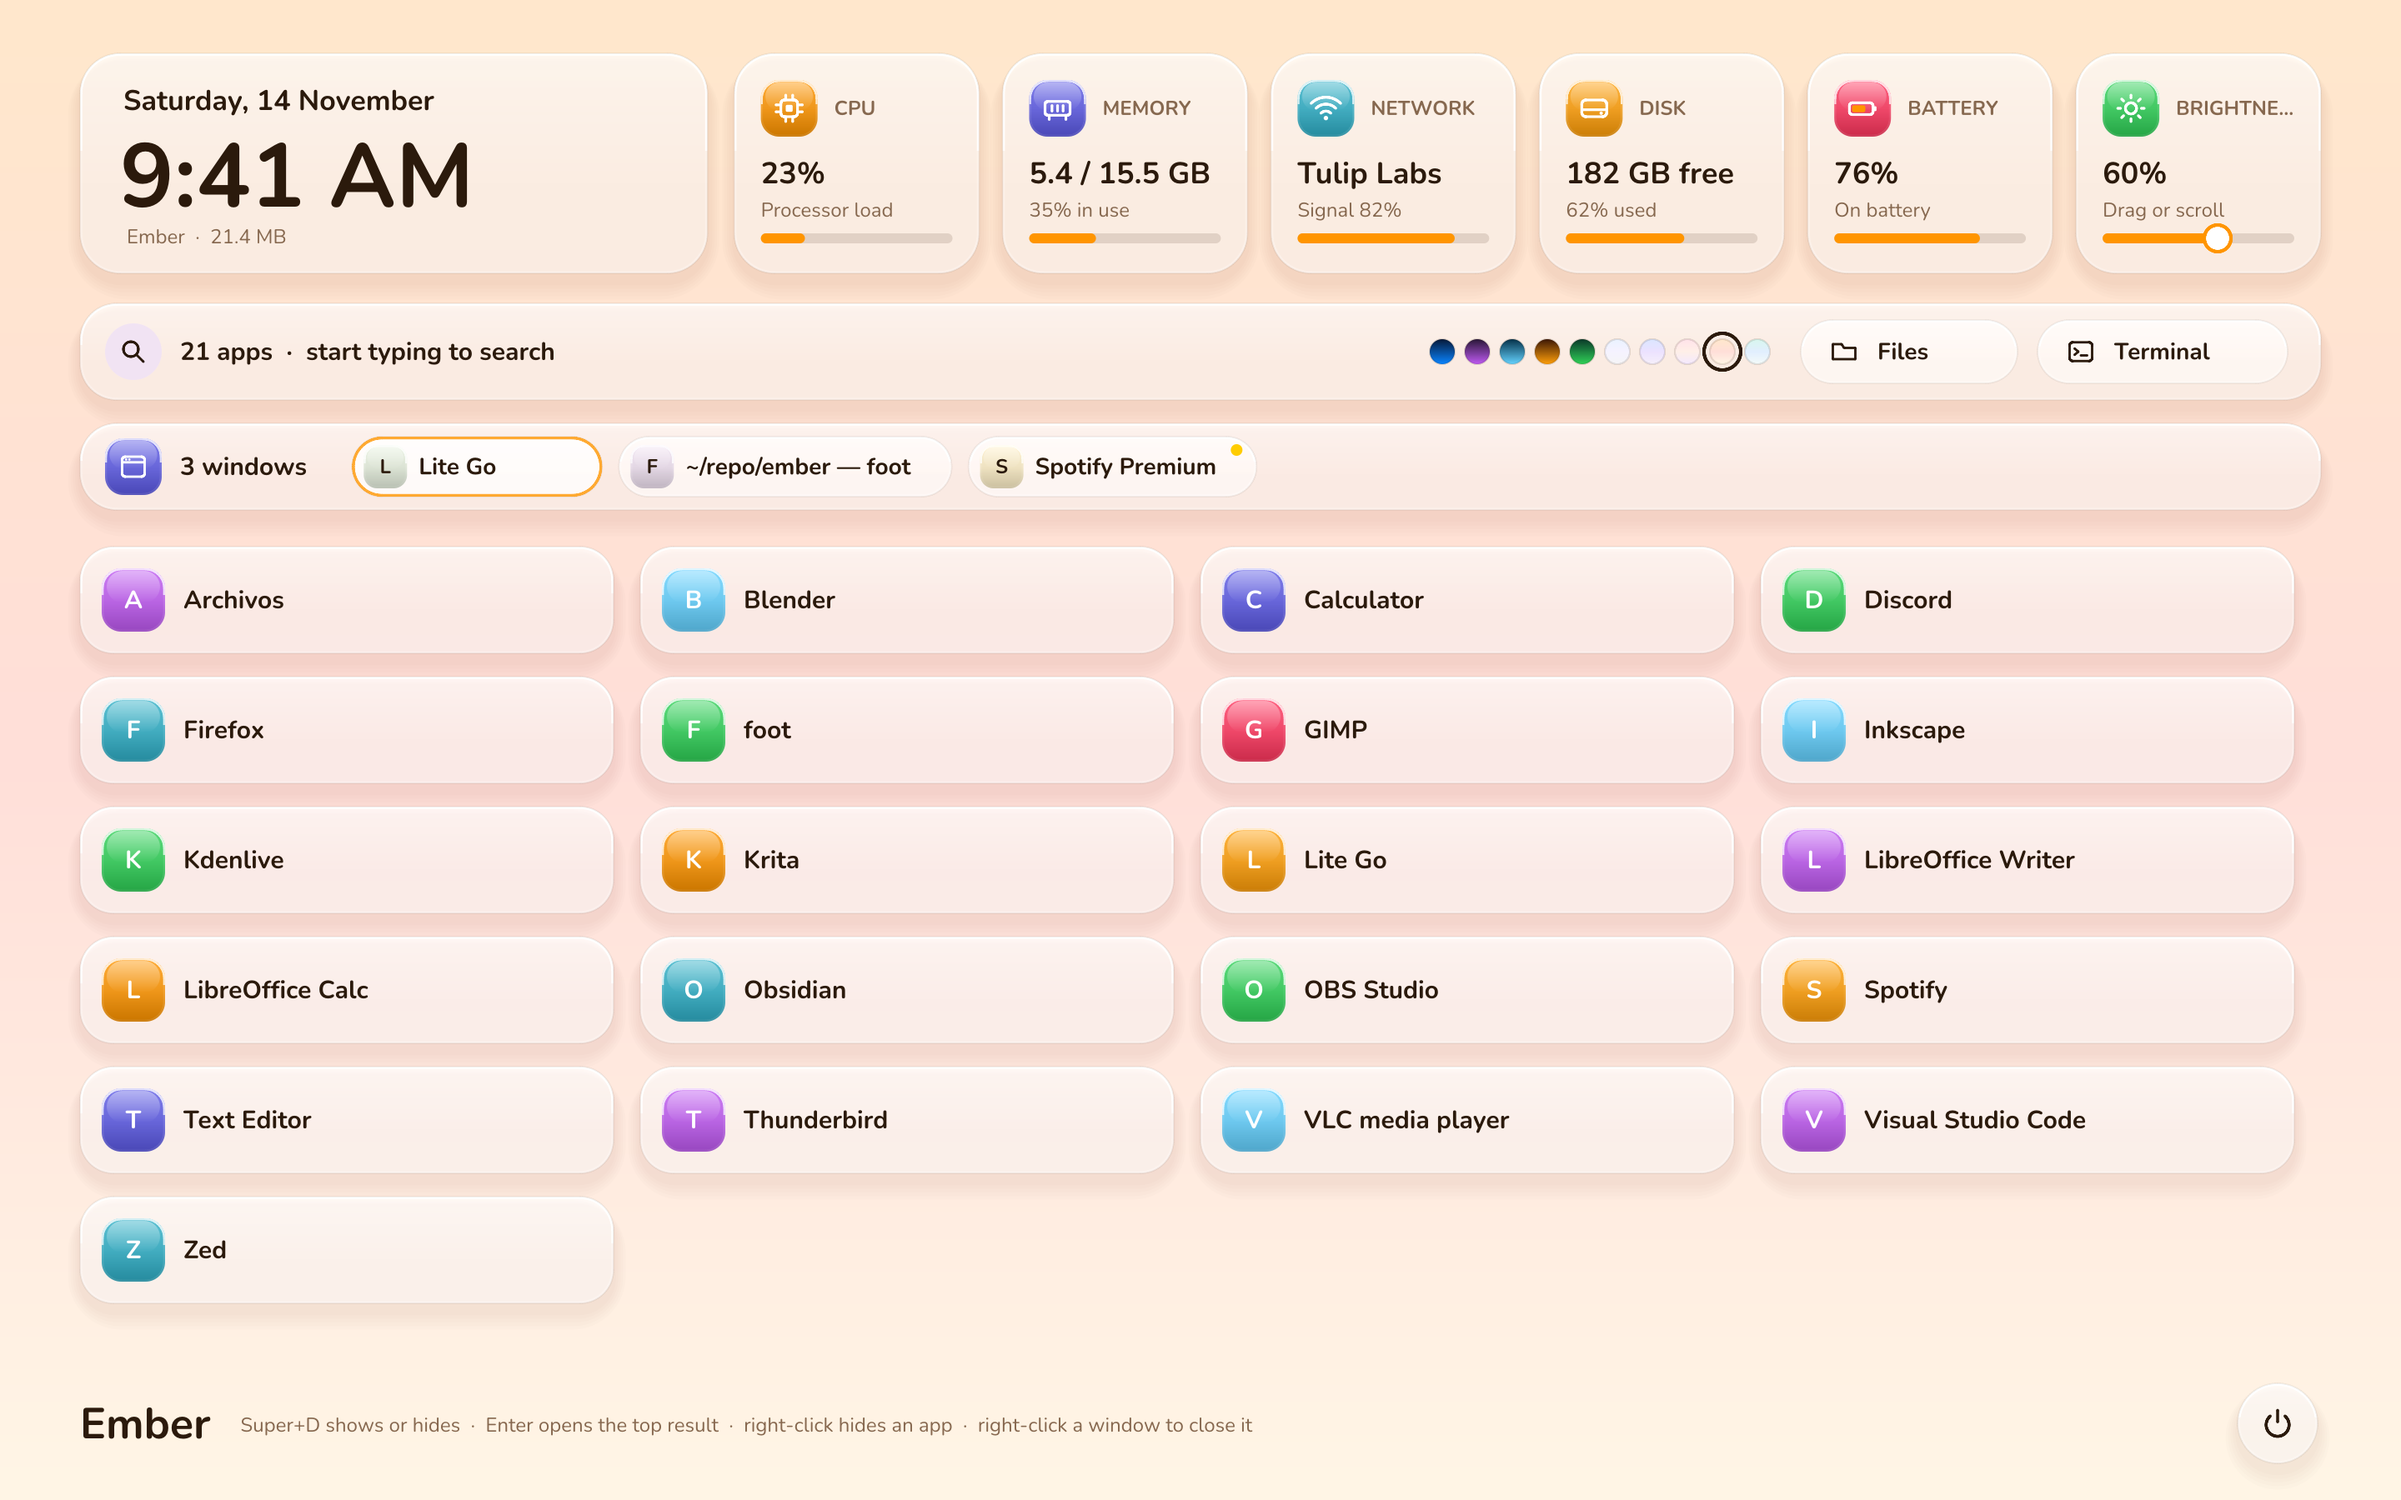
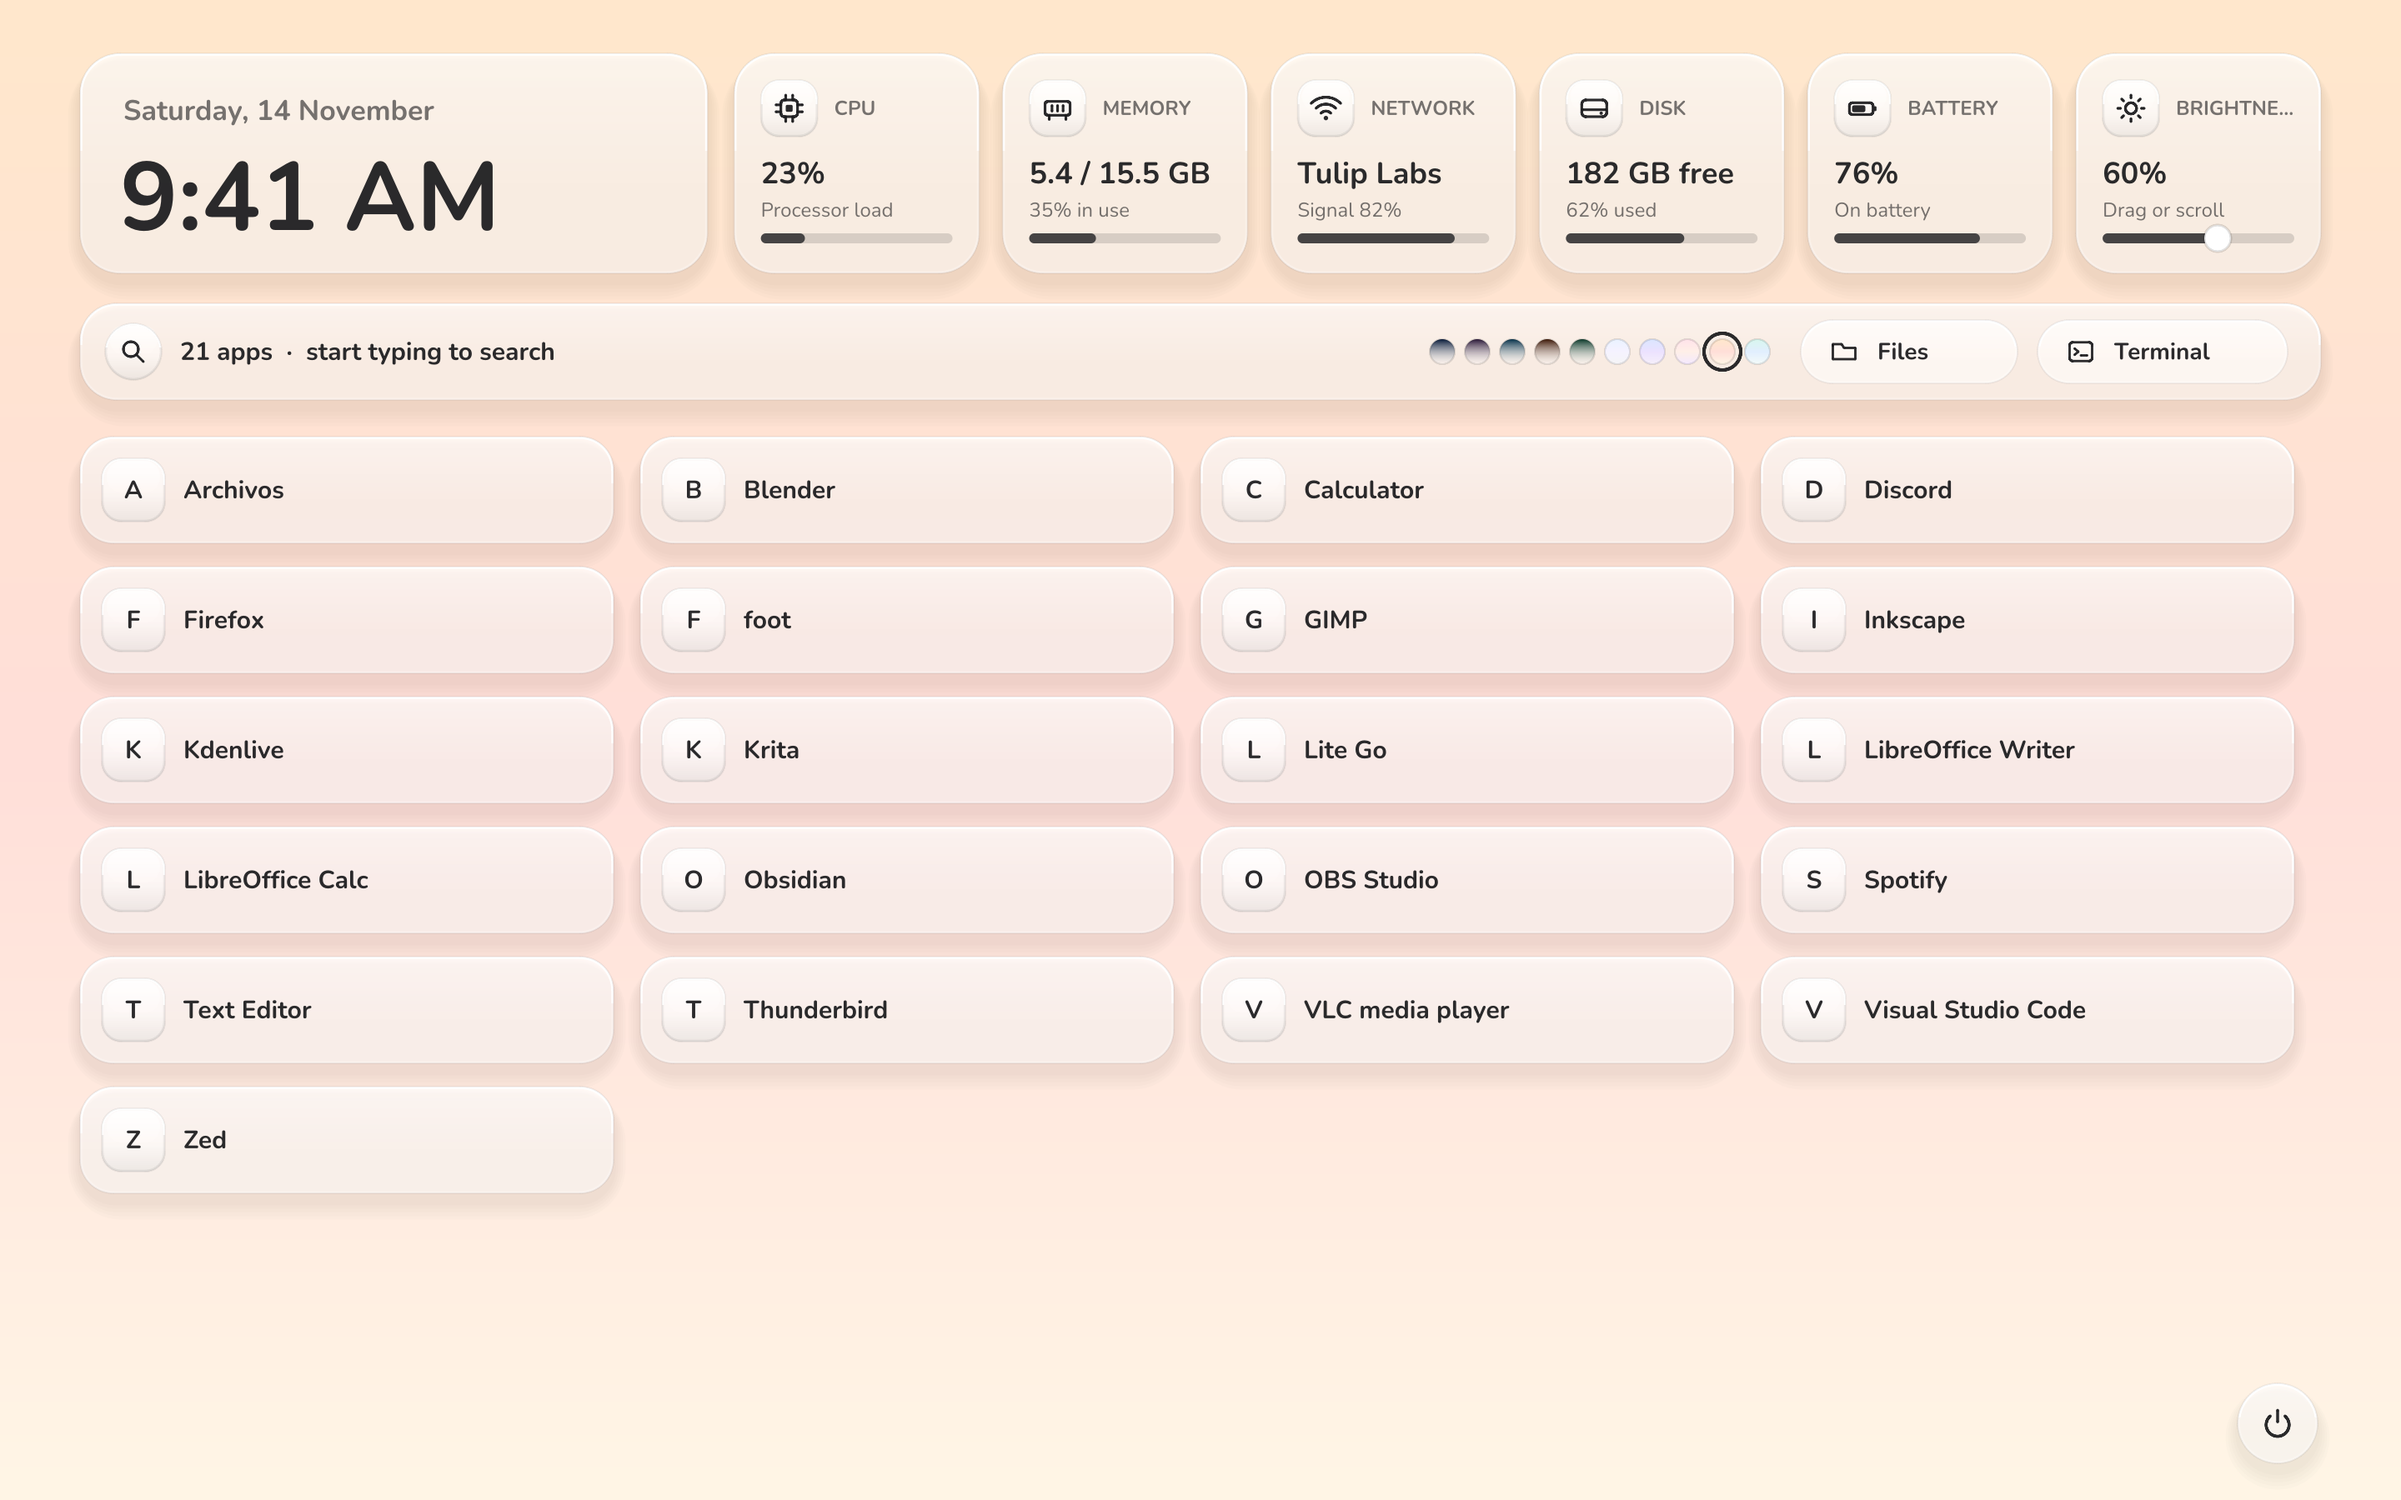
Ember 1.0.5: glass roles, notes, README and screenshots
Claude-Session: https://claude.ai/code/session_01MEhVsAAkMkEJaBw27qK1mL

diff --git a/linux/ui/theme.go b/linux/ui/theme.go
@@ -138,6 +138,14 @@ func (t *Theme) derive() *Theme {
 		t.ErrorContainer, t.OnErrorContainer = Mix(t.Danger, White, 0.82), Mix(t.Danger, Black, 0.45)
 	}
 	t.Hover, t.Pressed = t.Ink.Alpha(0.08), t.Ink.Alpha(0.12) // M3 state layers
+	// clear glass roles: accents read as the ink itself, filled buttons are
+	// the ink with the backdrop's color on top, containers are frosted panes
+	t.Primary = t.Ink
+	t.OnPrimary = pick(Hex("#1d1d1f"), White)
+	t.PrimaryContainer, t.OnPrimaryContainer = pick(White.Alpha(0.12), White.Alpha(0.62)), t.Ink
+	t.SecondaryContainer, t.OnSecondaryContainer = pick(White.Alpha(0.08), White.Alpha(0.48)), t.Ink
+	t.Selection = t.Ink.Alpha(0.22)
+	t.CodeKeyword, t.CodeType = t.Ink, t.Body
 	return t
 }
 

diff --git a/linux/cmd/ember/main.go b/linux/cmd/ember/main.go
@@ -30,7 +30,7 @@ import (
 	"ember/sysinfo"
 )
 
-const version = "1.0.4"
+const version = "1.0.5"
 
 func main() {
 	toggle := flag.Bool("toggle", false, "show Ember, or hide it when it is on screen")

diff --git a/README.md b/README.md
@@ -3,7 +3,7 @@
 # Ember
 
 **A calm, full-screen home for your desktop.**
-A dashboard, your apps and your open windows on one glass screen, in the house style of Lite Go.
+A dashboard and your apps on one screen of clear, colorless liquid glass, in the house style of Iris.
 
 Windows 3.1 · Linux 1.0 on [niri](https://github.com/YaLTeR/niri) · GPL-3.0
 
@@ -18,10 +18,10 @@ Ember replaces the desktop you sign in to with one screen:
 - **Dashboard.** The date and time, then cards for processor, memory, network, disk and battery, each with a usage bar, and a **brightness** card: drag its slider or scroll over it.
 - **Apps.** Every installed app as a tile. Start typing to search, press Enter to open the top result, or move with the arrow keys.
 - **Hide apps.** Right-click an app to hide it. Type `hidden` to see hidden apps; right-click one to bring it back.
-- **Open windows** (Linux). Every window niri manages, in a row. Click one to go to it, or right-click it to close it.
+- **Wi-Fi in a terminal.** Click the network card: a terminal opens with the networks nearby and a short guide to nmcli.
 - **Themes.** Ten glass palettes in the spirit of Apple's Liquid Glass. Dark: Liquid (the default: black, clear glass and glossy liquid icons), Graphite, Deep Sea, Ember and Aurora. Light: Daylight, Mist, Rose, Sunrise and Mint. Click a dot in the search bar to switch; Ember keeps your choice, and niri's colors follow it.
-- **Power panel.** Lock, sleep, sign out, restart, shut down, turn the screens off, the top bar, automatic updates, exit Ember.
-- **No top bar.** Ember's dashboard has the clock, battery and network, so Ember hides the bar niri starts (Waybar) the first time it runs. **Power → Top bar** brings it back (or `ember --show-bar`; `ember --hide-bar` hides it).
+- **Power panel.** Sleep, restart and shut down.
+- **No top bar.** Ember's dashboard has the clock, battery and network, so Ember hides the bar niri starts (Waybar) the first time it runs. `ember --show-bar` brings it back; `ember --hide-bar` hides it.
 
 | | |
 |---|---|
@@ -39,8 +39,8 @@ How the pieces fit together:
 2. A window rule tells niri to show Ember full screen with no border.
 3. **Super+D** runs `ember --toggle`, which shows or hides Ember. Only one Ember runs; the toggle talks to it over a small socket in your runtime folder.
 4. When you open an app, Ember asks niri to start it, so the app belongs to niri, not to Ember. Then Ember hides itself.
-5. The windows row comes from niri's IPC (`$NIRI_SOCKET`): Ember asks which windows are open and tells niri which one to focus or close.
-6. niri's colors follow Ember's theme. When you pick a theme, Ember writes `ember-theme.kdl` (the backdrop between windows, the focus ring around the active window, shadows and the overview) and niri reloads it by itself, so the whole desktop changes together.
+5. Ember talks to niri over its IPC socket (`$NIRI_SOCKET`), for instance to bring its own window to the front.
+6. niri follows Ember's theme. When you pick a theme, Ember writes `ember-theme.kdl` (the backdrop between windows, a glass focus ring, shadows, the overview, and rounded, slightly see-through windows that niri 26.04 and newer also blur behind) and niri reloads it by itself, so the whole desktop changes together. Dark themes also switch your apps to dark mode and light themes to light mode (GNOME's `color-scheme` setting, which GTK, libadwaita and the desktop portal follow).
 7. When Ember hides, it quits: it uses **no memory at all** while you are in your apps, and Super+D starts it again in a moment. (While it is on screen, most of what it uses is the graphics driver every window shares, plus the screen-sized picture itself.)
 
 The cards read `/proc` and `/sys` directly. If NetworkManager (`nmcli`) or `iwgetid` is installed, the network card shows the Wi-Fi name. Settings are kept in `~/.config/ember/settings.json`.
@@ -74,7 +74,7 @@ The `.deb` and `.rpm` are also attached to every release. The repository pages w
 
 **niri settings by hand.** `ember --setup-niri` adds Ember to niri's settings and `ember --remove-niri` takes it out. Ember's part lives in `~/.config/niri/ember.kdl` (keys, start at sign-in, the full-screen rule) and `ember-theme.kdl` (colors); `config.kdl` only gets the line `include "ember.kdl"`.
 
-**Updates.** Ember checks the latest GitHub release every few hours and checks each download against the release's `SHA256SUMS`. A home-folder copy installs the new version by itself and offers **Restart** in the footer; a `.deb` or `.rpm` copy offers **Install** (your password is asked once). Turn it off in the power panel (Automatic updates). Copies from Nix, the AUR or rpm-ostree update the way those tools do. A Flatpak is not offered: Ember starts your apps and talks to niri, which a Flatpak sandbox does not allow.
+**Updates.** Ember checks the latest GitHub release every few hours and checks each download against the release's `SHA256SUMS`. A home-folder copy installs the new version by itself and offers **Restart** in the footer; a `.deb` or `.rpm` copy offers **Install** (your password is asked once). To turn it off, set `"autoUpdate": false` in `~/.config/ember/settings.json`. Copies from Nix, the AUR or rpm-ostree update the way those tools do. A Flatpak is not offered: Ember starts your apps and talks to niri, which a Flatpak sandbox does not allow.
 
 ### Fedora Atomic (Silverblue, Kinoite and others)
 
@@ -113,12 +113,12 @@ Ember 3.1 for Windows is a Win32 program in C that replaces Explorer as your she
 ```
 linux/     Ember for Linux (Go + Gio)
   cmd/ember   the program: resident process, toggle socket, window
-  shell/      the screen: dashboard, windows row, app grid, power panel
+  shell/      the screen: dashboard, app grid, power panel
   niri/       niri IPC client
   apps/       .desktop entries: scan, search, launch
   sysinfo/    processor, memory, network, disk and battery from /proc and /sys
   update/     updates from the GitHub releases
-  ui, giox, raster   the drawing toolkit shared with Lite Go
+  ui, giox, raster   the drawing toolkit shared with Iris (formerly Lite Go)
   niri/ember.kdl     niri settings for Ember
   build.sh           builds the program, the .tar.gz, the .deb and the .rpm
   packaging/         install.sh for the .tar.gz

diff --git a/packaging/release-notes.md b/packaging/release-notes.md
@@ -1,4 +1,13 @@
-Ember: a calm, full-screen home for your desktop. A dashboard, your apps and your open windows on one pastel screen.
+Ember: a calm, full-screen home for your desktop. A dashboard and your apps on one screen of clear glass.
+
+## New in 1.0.5
+
+- **Colorless liquid glass.** Icons, cards, buttons and text are clear glass with no color of their own; only the backdrop keeps the theme's color. Text stays readable on every theme.
+- **niri's windows are glass too**: rounded corners, a fine glass focus ring, slightly see-through when not in use, and blurred behind on niri 26.04 or newer.
+- **Dark themes turn on dark mode, light themes light mode** for your apps (GTK and libadwaita apps, and the browsers and Electron apps that follow the desktop).
+- **A quieter screen**: no name or hints in the footer, and no row of open windows (niri's overview shows them).
+- **Power** now offers just Sleep, Restart and Shut down.
+- **Click the network card** to open a terminal with the Wi-Fi networks nearby and a short guide to nmcli (connect, disconnect, saved networks, Wi-Fi on and off).
 
 ## New in 1.0.4
 
